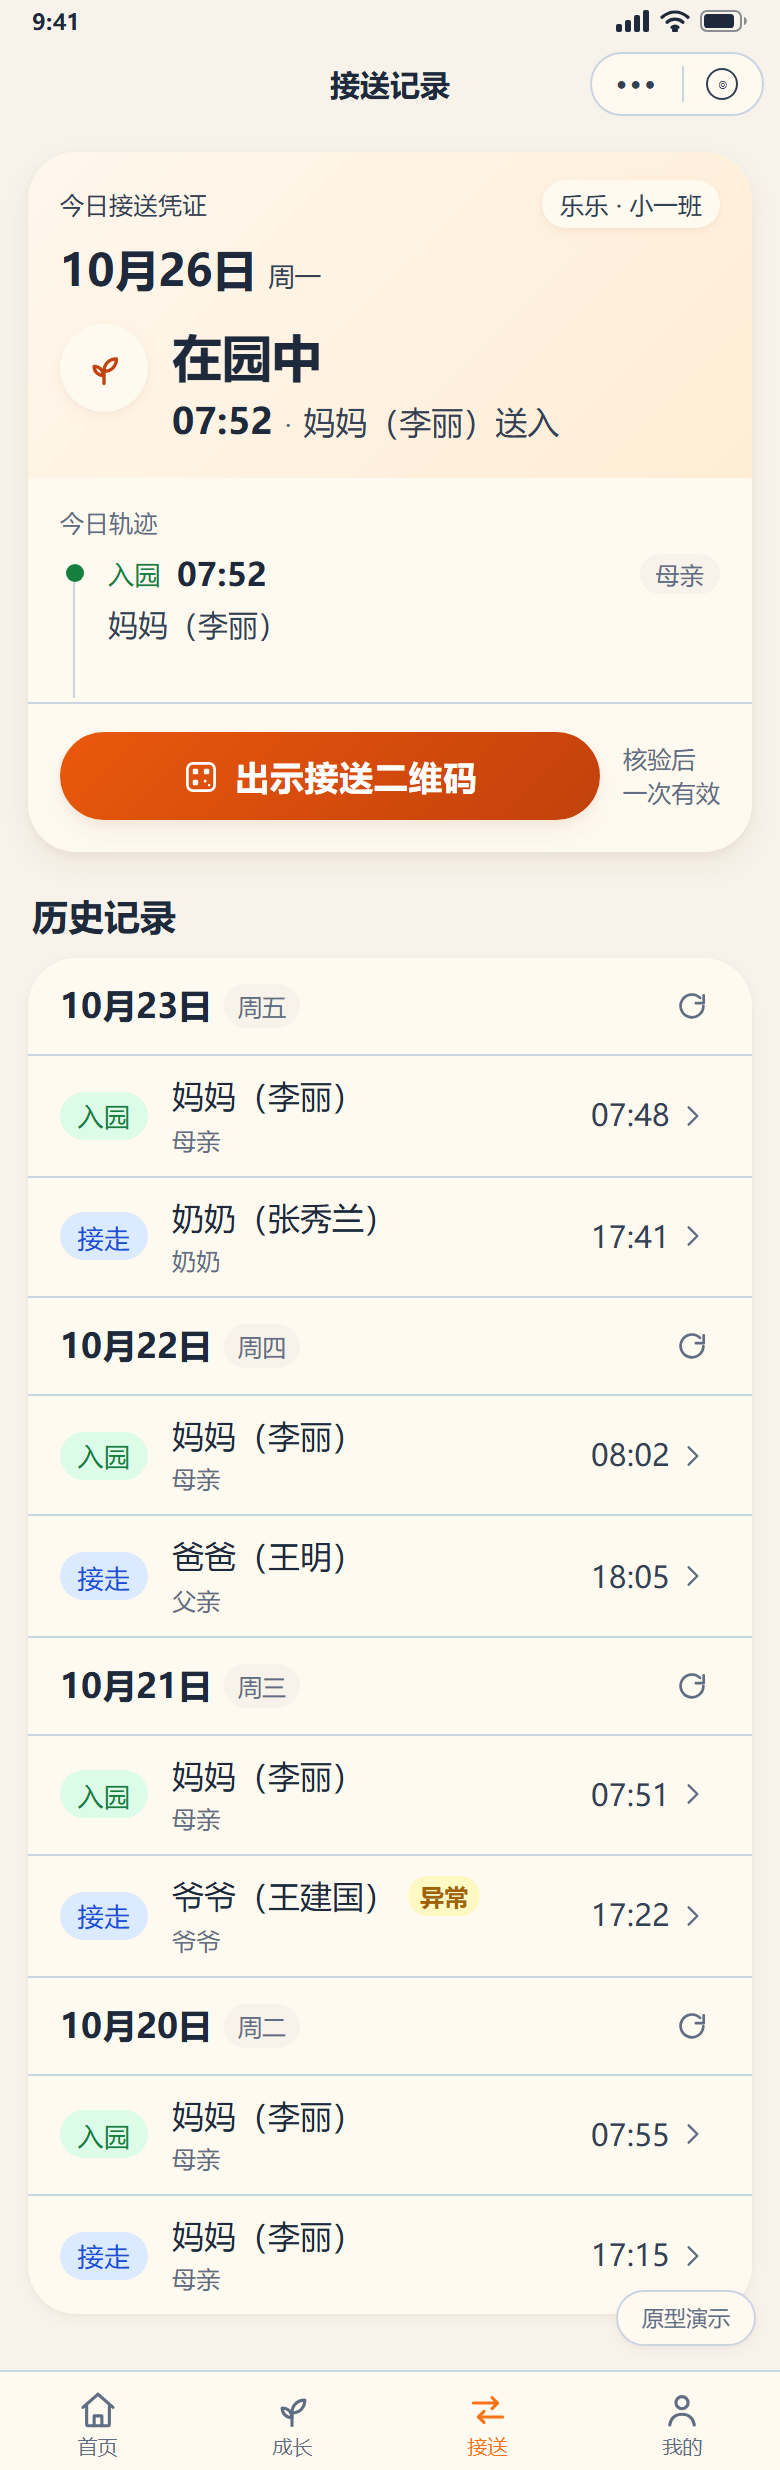
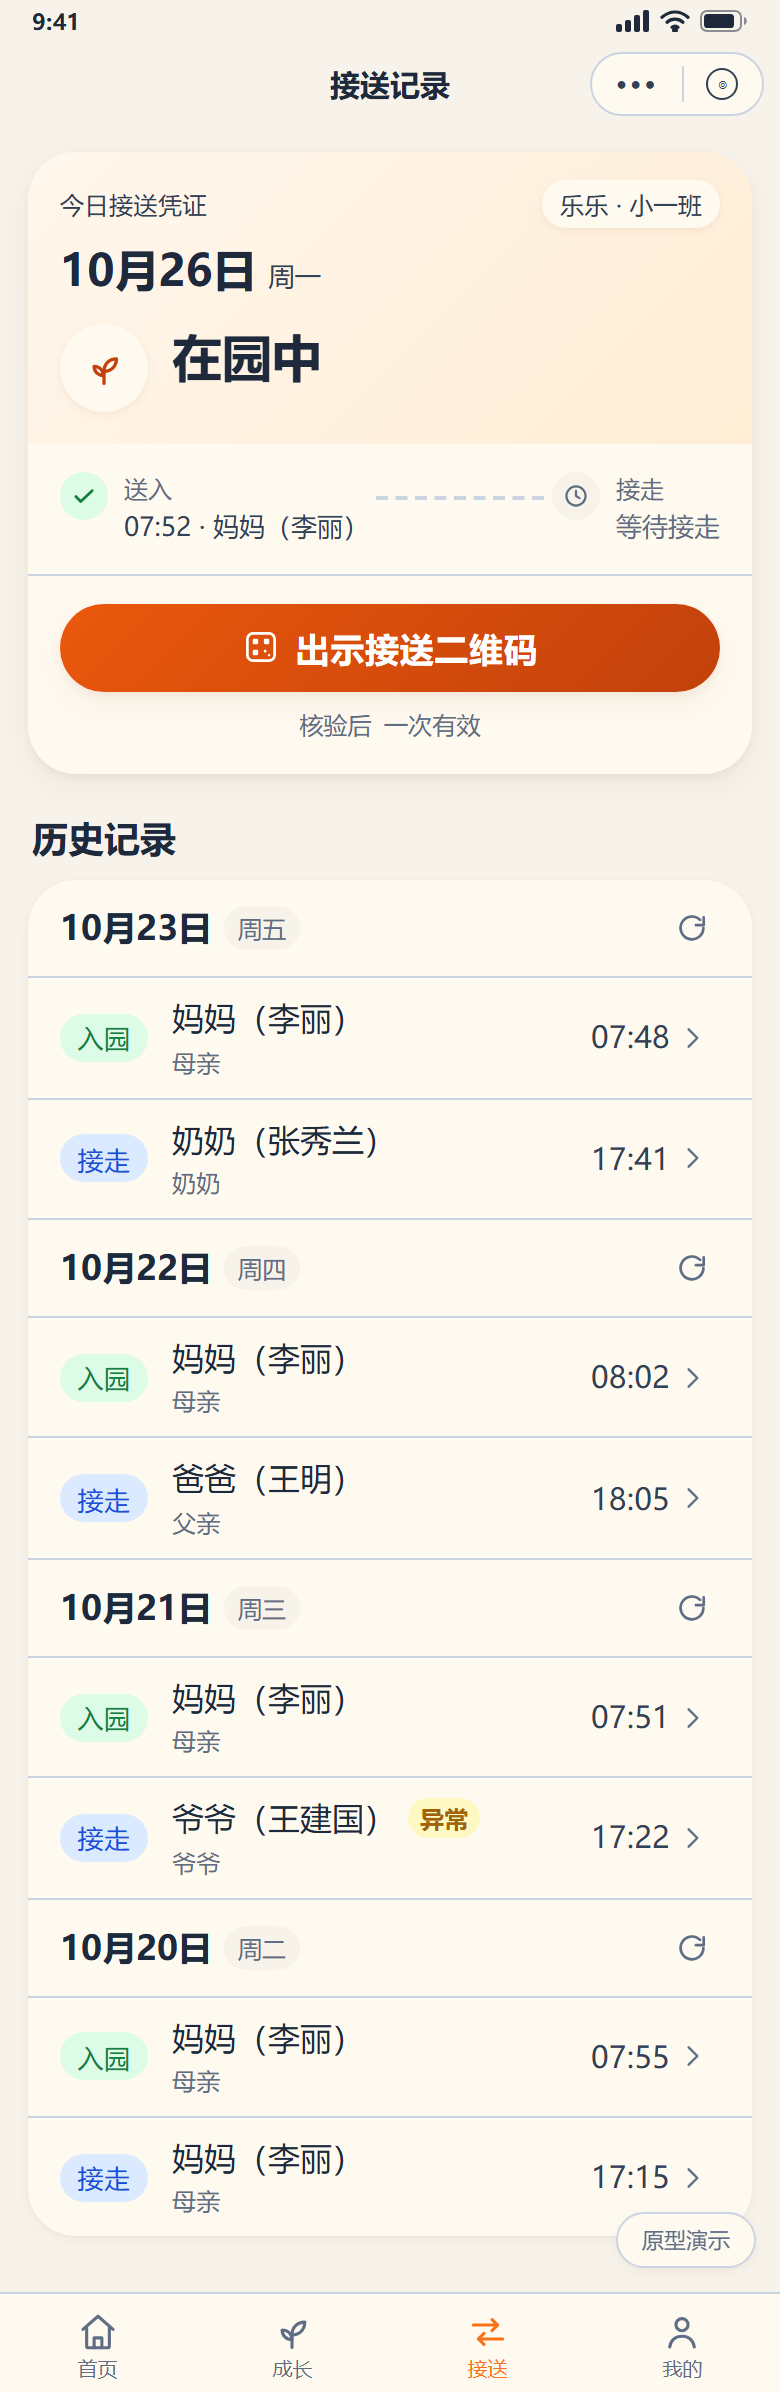
design(pickup): 三态进度轨与完成态收口
- 状态卡副文案只保留未入园时间上下文，时间/接送人收进两步进度轨
- 删除重复的「今日轨迹」块；已接走只留完成回执与绿色进度
- 二维码说明移到按钮下方居中

diff --git a/docs/design-previews/2026-10-25-full-redesign/parent/13-pickup-index/styles.css b/docs/design-previews/2026-10-25-full-redesign/parent/13-pickup-index/styles.css
@@ -31,32 +31,28 @@ h1,h2,h3,p{margin:0}
 .status-time{color:var(--fg);font-size:var(--text-xl);font-weight:var(--weight-semibold);line-height:var(--leading-tight);font-variant-numeric:tabular-nums;letter-spacing:0.01em}
 .status-dot{color:var(--muted);font-size:var(--text-sm);line-height:1}
 .status-who{color:var(--fg-2);font-size:var(--text-md);font-weight:var(--weight-normal);line-height:var(--leading-tight);overflow-wrap:anywhere}
-.pass-body{padding:14px 16px 0}
-[data-day="pre"] .pass-body{display:none}
-.track-label{color:var(--muted);font-size:var(--text-xs);font-weight:var(--weight-medium);line-height:var(--leading-tight);letter-spacing:0.02em}
-.track{display:flex;flex-direction:column;margin:4px 0 0;padding:0;list-style:none}
-.track-item{display:grid;grid-template-columns:14px minmax(0,1fr);column-gap:10px}
-.track-mark{position:relative;display:flex;justify-content:center;padding-top:8px}
-.track-mark::after{content:"";position:absolute;top:17px;bottom:-12px;left:50%;width:1px;background:var(--border);transform:translateX(-50%)}
-.track-item:last-child .track-mark::after{display:none}
-/* 在园中：撤下接走节点 */
-[data-day="in"] .track-item--out{display:none}
-.track-dot{position:relative;z-index:1;width:9px;height:9px;border-radius:var(--radius-pill)}
-.track-dot--in{background:var(--success)}
-.track-dot--out{background:var(--accent)}
-.track-content{min-width:0;padding:2px 0 14px}
-.track-item:last-child .track-content{padding-bottom:0}
-.track-top{display:flex;align-items:center;flex-wrap:wrap;gap:var(--space-md);min-width:0}
-.track-type{font-size:var(--text-sm);font-weight:var(--weight-medium);line-height:var(--leading-tight);letter-spacing:0.02em}
-.track-type--in{color:var(--success)}
-.track-type--out{color:var(--accent-deep)}
-.track-time{color:var(--fg);font-size:var(--text-md);font-weight:var(--weight-semibold);line-height:var(--leading-tight);font-variant-numeric:tabular-nums;letter-spacing:0.01em}
-.track-rel{margin-left:auto;padding:1px 8px;border-radius:var(--radius-pill);background:var(--bg);color:var(--muted);font-size:var(--text-xs);font-weight:var(--weight-medium);line-height:1.5;letter-spacing:0.01em}
-.track-who{margin-top:2px;color:var(--fg-2);font-size:var(--text-base);font-weight:var(--weight-normal);line-height:1.5;overflow-wrap:anywhere}
-.pass-foot{display:grid;grid-template-columns:minmax(0,1fr) auto;align-items:center;gap:12px;margin-top:14px;padding:14px 16px 16px;border-top:1px solid var(--border)}
-.pass-note{display:flex;flex-direction:column;color:var(--muted);font-size:var(--text-xs);font-weight:var(--weight-medium);line-height:1.45;letter-spacing:0.01em}
+.pass-rail{display:flex;align-items:flex-start;gap:10px;padding:14px 16px 0}
+.rail-step{display:flex;align-items:flex-start;gap:8px;min-width:0}
+.rail-step--out{flex:0 0 auto}
+.rail-dot{display:grid;place-items:center;flex:none;width:24px;height:24px;border-radius:var(--radius-pill);background:var(--success-wash);color:var(--success)}
+.rail-step--out .rail-dot{background:var(--bg);color:var(--muted)}
+.rail-glyph{display:block}
+.rail-glyph--done,.rail-meta--done{display:none}
+.rail-line{flex:1 1 auto;height:0;margin:12px -6px 0;border-top:2px dashed var(--border)}
+.rail-copy{display:flex;flex-direction:column;gap:2px;min-width:0}
+.rail-label{color:var(--muted);font-size:var(--text-xs);font-weight:var(--weight-medium);line-height:1.4}
+.rail-meta{color:var(--fg-2);font-size:var(--text-sm);line-height:1.4;white-space:nowrap;overflow:hidden;text-overflow:ellipsis}
+[data-day="pre"] .pass-rail{display:none}
+[data-day="out"] .rail-step--out .rail-dot{background:var(--success-wash);color:var(--success)}
+[data-day="out"] .rail-line{border-top:2px solid var(--success)}
+[data-day="in"] .rail-step--out .rail-meta{color:var(--muted)}
+[data-day="out"] .rail-glyph--pending,[data-day="out"] .rail-meta--pending{display:none}
+[data-day="out"] .rail-glyph--done{display:block}
+[data-day="out"] .rail-meta--done{display:inline}
+.pass-foot{display:flex;flex-direction:column;align-items:stretch;gap:8px;margin-top:14px;padding:14px 16px 16px;border-top:1px solid var(--border)}
+.pass-note{display:flex;justify-content:center;gap:6px;color:var(--muted);font-size:var(--text-xs);font-weight:var(--weight-medium);line-height:1.45;letter-spacing:0.01em}
 /* 已接走：换成完成回执条 */
-.done-note{display:none;grid-column:1 / -1;align-items:center;justify-content:center;gap:var(--space-md);min-height:var(--input-height);border-radius:var(--radius-pill);background:var(--success-wash);color:var(--success);font-size:var(--text-md);font-weight:var(--weight-semibold);line-height:1.3}
+.done-note{display:none;align-items:center;justify-content:center;gap:var(--space-md);min-height:var(--input-height);border-radius:var(--radius-pill);background:var(--success-wash);color:var(--success);font-size:var(--text-md);font-weight:var(--weight-semibold);line-height:1.3}
 .done-note svg{flex:none;width:18px;height:18px}
 [data-day="out"] .qr-cta,[data-day="out"] .pass-note{display:none}
 [data-day="out"] .done-note{display:flex}

diff --git a/docs/design-previews/2026-10-25-full-redesign/parent/13-pickup-index/index.html b/docs/design-previews/2026-10-25-full-redesign/parent/13-pickup-index/index.html
@@ -66,35 +66,28 @@
 <span class="seal seal--in" aria-hidden="true"><svg width="22" height="22"><use href="#i-sprout"/></svg></span>
 <div class="status-copy">
 <p class="status-main">在园中</p>
-<p class="status-sub"><time class="status-time" datetime="2026-10-26T07:52">07:52</time><span class="status-dot" aria-hidden="true">·</span><span class="status-who">妈妈（李丽）送入</span></p>
 </div>
 </div>
 <div class="pass-status pass-status--out" data-od-id="pass-status-out">
 <span class="seal seal--out" aria-hidden="true"><svg width="22" height="22"><use href="#i-check"/></svg></span>
 <div class="status-copy">
 <p class="status-main">已接走</p>
-<p class="status-sub"><time class="status-time" datetime="2026-10-26T17:30">17:30</time><span class="status-dot" aria-hidden="true">·</span><span class="status-who">爸爸（王明）</span></p>
 </div>
 </div>
 </div>
-<div class="pass-body">
-<p class="track-label">今日轨迹</p>
-<ol class="track" aria-label="今日接送时间轴">
-<li class="track-item" data-od-id="today-in">
-<span class="track-mark" aria-hidden="true"><span class="track-dot track-dot--in"></span></span>
-<div class="track-content">
-<p class="track-top"><span class="track-type track-type--in">入园</span><time class="track-time" datetime="2026-10-26T07:52">07:52</time><span class="track-rel">母亲</span></p>
-<p class="track-who">妈妈（李丽）</p>
-</div>
-</li>
-<li class="track-item track-item--out" data-od-id="today-out">
-<span class="track-mark" aria-hidden="true"><span class="track-dot track-dot--out"></span></span>
-<div class="track-content">
-<p class="track-top"><span class="track-type track-type--out">接走</span><time class="track-time" datetime="2026-10-26T17:30">17:30</time><span class="track-rel">父亲</span></p>
-<p class="track-who">爸爸（王明）</p>
-</div>
-</li>
-</ol>
+<div class="pass-rail" aria-label="今日接送进度">
+<span class="rail-step rail-step--in is-done">
+<span class="rail-dot" aria-hidden="true"><svg width="14" height="14" viewBox="0 0 24 24" fill="none" stroke="currentColor" stroke-width="2.4" stroke-linecap="round" stroke-linejoin="round"><path d="m5 12.5 4.2 4.2L19 7.5"/></svg></span>
+<span class="rail-copy"><span class="rail-label">送入</span><span class="rail-meta"><time datetime="2026-10-26T07:52">07:52</time> · 妈妈（李丽）</span></span>
+</span>
+<span class="rail-line" aria-hidden="true"></span>
+<span class="rail-step rail-step--out">
+<span class="rail-dot" aria-hidden="true">
+<svg class="rail-glyph rail-glyph--pending" width="14" height="14" viewBox="0 0 24 24" fill="none" stroke="currentColor" stroke-width="1.9" stroke-linecap="round" stroke-linejoin="round"><circle cx="12" cy="12" r="8.2"/><path d="M12 7.6V12l3 1.8"/></svg>
+<svg class="rail-glyph rail-glyph--done" width="14" height="14" viewBox="0 0 24 24" fill="none" stroke="currentColor" stroke-width="2.4" stroke-linecap="round" stroke-linejoin="round"><path d="m5 12.5 4.2 4.2L19 7.5"/></svg>
+</span>
+<span class="rail-copy"><span class="rail-label">接走</span><span class="rail-meta rail-meta--pending">等待接走</span><span class="rail-meta rail-meta--done"><time datetime="2026-10-26T17:30">17:30</time> · 爸爸（王明）</span></span>
+</span>
 </div>
 <div class="pass-foot">
 <button class="btn-primary qr-cta" id="qr-open" type="button" aria-haspopup="dialog" data-od-id="pass-qr-cta">

diff --git a/docs/design-changes/2026-11-10-pickup-polish.md b/docs/design-changes/2026-11-10-pickup-polish.md
@@ -1,0 +1,52 @@
+# 接送页三态与完成态收口
+
+- status: approved
+- date: 2026-11-10
+- pages:
+  - parent/13-pickup-index
+- baseline: aa66cd1
+- author: yhs
+
+## 问题
+
+当前接送页在「在园中 / 已接走」时，状态卡和「今日轨迹」重复展示同一组时间与接送人：状态卡说“07:52 · 妈妈 送入”，下面的轨迹又说一遍；接了孩子后轨迹仍然占一整块，完成态不够干净。
+
+## 目标 / 非目标
+
+- 目标：把「今日轨迹」收进状态卡，做成两步进度轨（送入 → 接走），状态卡副文案只描述状态，不再重复时间/接送人；完成态只留完成收口。
+- 非目标：不改接口、不改历史记录分组、不改二维码核验逻辑。
+
+## 状态覆盖
+
+- `pre` 未入园：状态卡显示「截至 HH:mm 未入园」，不显示进度轨。
+- `in` 在园中：进度轨「送入」完成（时间 + 接送人），「接走」等待中。
+- `picked` 已接走：两步都完成，连线变成功色；二维码入口隐藏，显示「今日接送已完成」。
+- `empty / loading / error` 保持现状。
+
+## 验收标准
+
+- 状态卡副文案只出现状态描述，不再重复时间/接送人。
+- 进度轨在 `in` / `picked` 可见，`pre` 不可见；两步的时间/接送人与当天记录一致。
+- `picked` 时不再出现「今日轨迹」块，二维码 CTA 不出现。
+- 390px 视口无横向溢出，`od-check` 无 console error。
+
+## 设计改动
+
+- 原型：`parent/13-pickup-index/index.html`、`styles.css`、`notes.md`
+- 状态卡副文案：`已送入，等待接走` / `接送已完成`
+- 移除「今日轨迹」列表，新增 `.pass-rail` 两步进度轨
+- 截图：`design:shots -- --page 13-pickup-index`
+
+## 实现
+
+- code commit：待实现
+- accepted pages：待实现
+- accept reason：待实现
+
+## 差异
+
+待实现后填写。
+
+## 后续
+
+如果进度轨的接送人姓名过长，后续可改为两行或省略关系称谓。

diff --git a/docs/design-previews/2026-10-25-full-redesign/parent/13-pickup-index/notes.md b/docs/design-previews/2026-10-25-full-redesign/parent/13-pickup-index/notes.md
@@ -55,3 +55,9 @@
 ## 与代码同步（2026-11-06）
 
 - 「未入园」补充时间上下文：「截至 09:41 未入园」；「已接走」收口文案补齐时间与接送人：「今日接送已完成 · 17:30 爸爸 接走」。
+
+## 与代码同步（2026-11-10）
+
+- 状态卡副文案改为状态描述（已送入，等待接走 / 接送已完成），时间与接送人收进新的两步进度轨 `.pass-rail`（送入 → 接走）。
+- 移除重复的「今日轨迹」列表；`picked` 时两步都完成、二维码入口隐藏。
+- 对应变更单 `docs/design-changes/2026-11-10-pickup-polish.md`。
